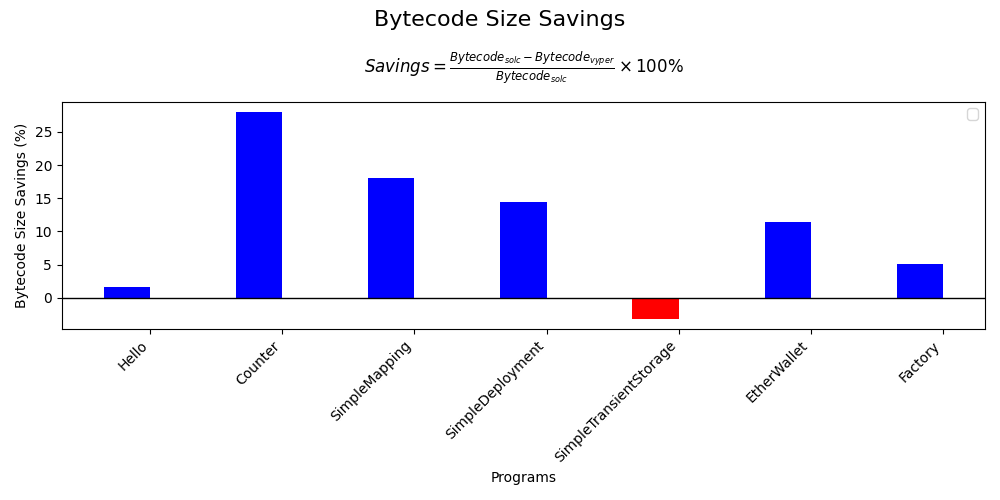
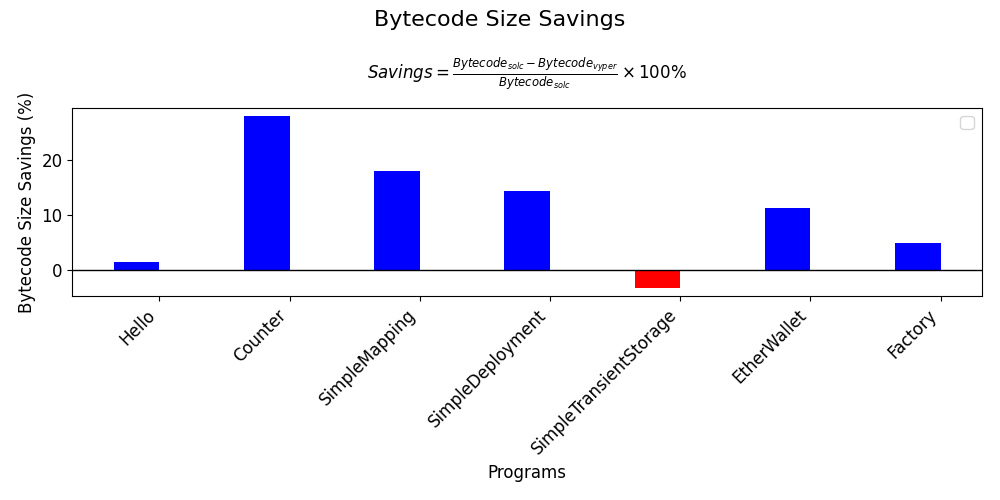
Remove duplicate phi vars and bump vyper version

diff --git a/src/bytecode_transpiler/ssa_structures.py b/src/bytecode_transpiler/ssa_structures.py
@@ -16,7 +16,6 @@ from bytecode_transpiler.ssa_basic_blocks import (
 	PhiEdge,
 	PhiFunction,
 )
-from copy import deepcopy
 
 IRRELEVANT_SSA_OPCODES = ["JUMPDEST", "SWAP", "DUP", "JUMPDEST", "POP", "PUSH"]
 JUMP_OPCODE = "JUMP"
@@ -29,8 +28,10 @@ def mapper(x):
 		return "%" + str(x.id)
 	elif isinstance(x, Block):
 		return str(x)
+	elif isinstance(x, PhiEdge):
+		return str(x)
 	else:
-		raise Exception(f"Unknown {x}")
+		raise Exception(f"Unknown {x} {type(x)}")
 
 
 @dataclass
@@ -148,6 +149,15 @@ def has_preceding_instr(block: "SsaBlock", new_var):
 		if op.instruction.name == new_var:
 			return True
 	return False
+
+
+def has_preceding_phi_instr(block: "SsaBlock", new_var: PhiInstruction):
+	for op in block.preceding_opcodes:
+		instr = op.instruction
+		if isinstance(instr, PhiInstruction):
+			if str(instr.resolved_arguments) == str(new_var.resolved_arguments):
+				return op.variable_name
+	return None
 
 
 def create_opcode(
@@ -304,11 +314,21 @@ class PhiBlockResolver:
 			if phi_functions.can_skip:
 				resolved_arguments.append(phi_functions.edge[0].value)
 			else:
+				old_phi_value = self.phi_counter.value
 				phi_value = self.phi_counter.increment()
 				phi_func = construct_phi_function(phi_functions, phi_value)
-				parent_block.preceding_opcodes.append(phi_func)
-				self.add_phi_block_usage(phi_func.variable_name, current_block.id)
-				resolved_arguments.append(VyperPhiRef(ref=phi_value))
+				# Don't create a new variable unless it's needed
+				# TODO: also add a test for this case.
+				phi_func_exists = has_preceding_phi_instr(
+					parent_block, phi_func.instruction
+				)
+				if phi_func_exists is not None:
+					resolved_arguments.append(VyperVarRef(ref=phi_func_exists))
+					self.phi_counter.value = old_phi_value
+				else:
+					parent_block.preceding_opcodes.append(phi_func)
+					self.add_phi_block_usage(phi_func.variable_name, current_block.id)
+					resolved_arguments.append(VyperPhiRef(ref=phi_value))
 
 				if op.instruction.name == JUMP_OPCODE:
 					resolved_arguments += [

diff --git a/src/bytecode_transpiler/transpiler_test.py b/src/bytecode_transpiler/transpiler_test.py
@@ -157,21 +157,21 @@ def test_should_handle_phi_djmps():
 
 
 balance_delta_code = """
-		contract BalanceCallS {
-			function getEthBalances(
-				address[] memory addr
-			) public view returns (uint256[] memory balance) {
-				balance = new uint256[](addr.length);
-				for (uint256 i = 0; i < addr.length; i++) {
-					balance[i] = getEthBalance(addr[i]);
-				}
-				return balance;
+	contract BalanceCallS {
+		function getEthBalances(
+			address[] memory addr
+		) public view returns (uint256[] memory balance) {
+			balance = new uint256[](addr.length);
+			for (uint256 i = 0; i < addr.length; i++) {
+				balance[i] = getEthBalance(addr[i]);
 			}
-
-			function getEthBalance(address addr) public view returns (uint256 balance) {
-				balance = addr.balance;
-			}
+			return balance;
 		}
+
+		function getEthBalance(address addr) public view returns (uint256 balance) {
+			balance = addr.balance;
+		}
+	}
 	"""
 
 
@@ -1043,21 +1043,24 @@ def test_transpile_minimal_proxy_from_bytecode():
 		assert transpiled is not None
 
 
-def test_raw_bytecode():
-	for i in [
-		REGISTRY,
-		ERC4626_RRATE_PROVIDER,
-		ERC721_DROP,
-		SINGLE_BLOCK,
-		PC_INVALID_JUMP,
-		GLOBAL_JUMP,
-		INLINE_CALLS,
-	]:
-		output = get_ssa_program(i)
-		output.process()
-		assert output.has_unresolved_blocks is False
-		transpiled = compile_venom(output.convert_into_vyper_ir())
-		assert transpiled is not None
+@pytest.mark.parametrize(
+	"raw_bytecode",
+	[
+		REGISTRY.hex(),
+		ERC4626_RRATE_PROVIDER.hex(),
+		ERC721_DROP.hex(),
+		SINGLE_BLOCK.hex(),
+		# PC_INVALID_JUMP.hex(),
+		GLOBAL_JUMP.hex(),
+		INLINE_CALLS.hex(),
+	],
+)
+def test_raw_bytecode(raw_bytecode):
+	output = get_ssa_program(bytes.fromhex(raw_bytecode))
+	output.process()
+	assert output.has_unresolved_blocks is False
+	transpiled = compile_venom(output.convert_into_vyper_ir())
+	assert transpiled is not None
 
 
 # Sanity check that the eval script should still work

diff --git a/src/evals/eval.py b/src/evals/eval.py
@@ -9,6 +9,12 @@ import matplotlib.pyplot as plt
 from test_utils.abi import encode_function_call
 from test_utils.evm import get_function_gas_usage
 
+import matplotlib
+
+matplotlib.use("Agg")
+plt.rcParams["font.family"] = "DejaVu Sans"
+plt.rcParams["font.size"] = 12
+
 
 @dataclass
 class FunctionCall:
@@ -379,6 +385,7 @@ def run_eval(plot):
 	if plot:
 		plot_bytecode_size(bytecode_sizes)
 		plot_gas_usage(gas_usage)
+		print("Saved plots")
 
 
 if __name__ == "__main__":

diff --git a/src/bytecode_transpiler/transpiler.py b/src/bytecode_transpiler/transpiler.py
@@ -375,7 +375,8 @@ def transpile_from_bytecode(
 	experimental=False,
 	stats=False,
 ):
-	dot = graphviz.Digraph(comment="cfg", format="png")
+	# PDF is nicer as you can more easily search around when debugging
+	dot = graphviz.Digraph(comment="cfg", format="pdf")
 	output = get_ssa_program(bytecode)
 	output.process(
 		SsaProgrammingProcessOption(
